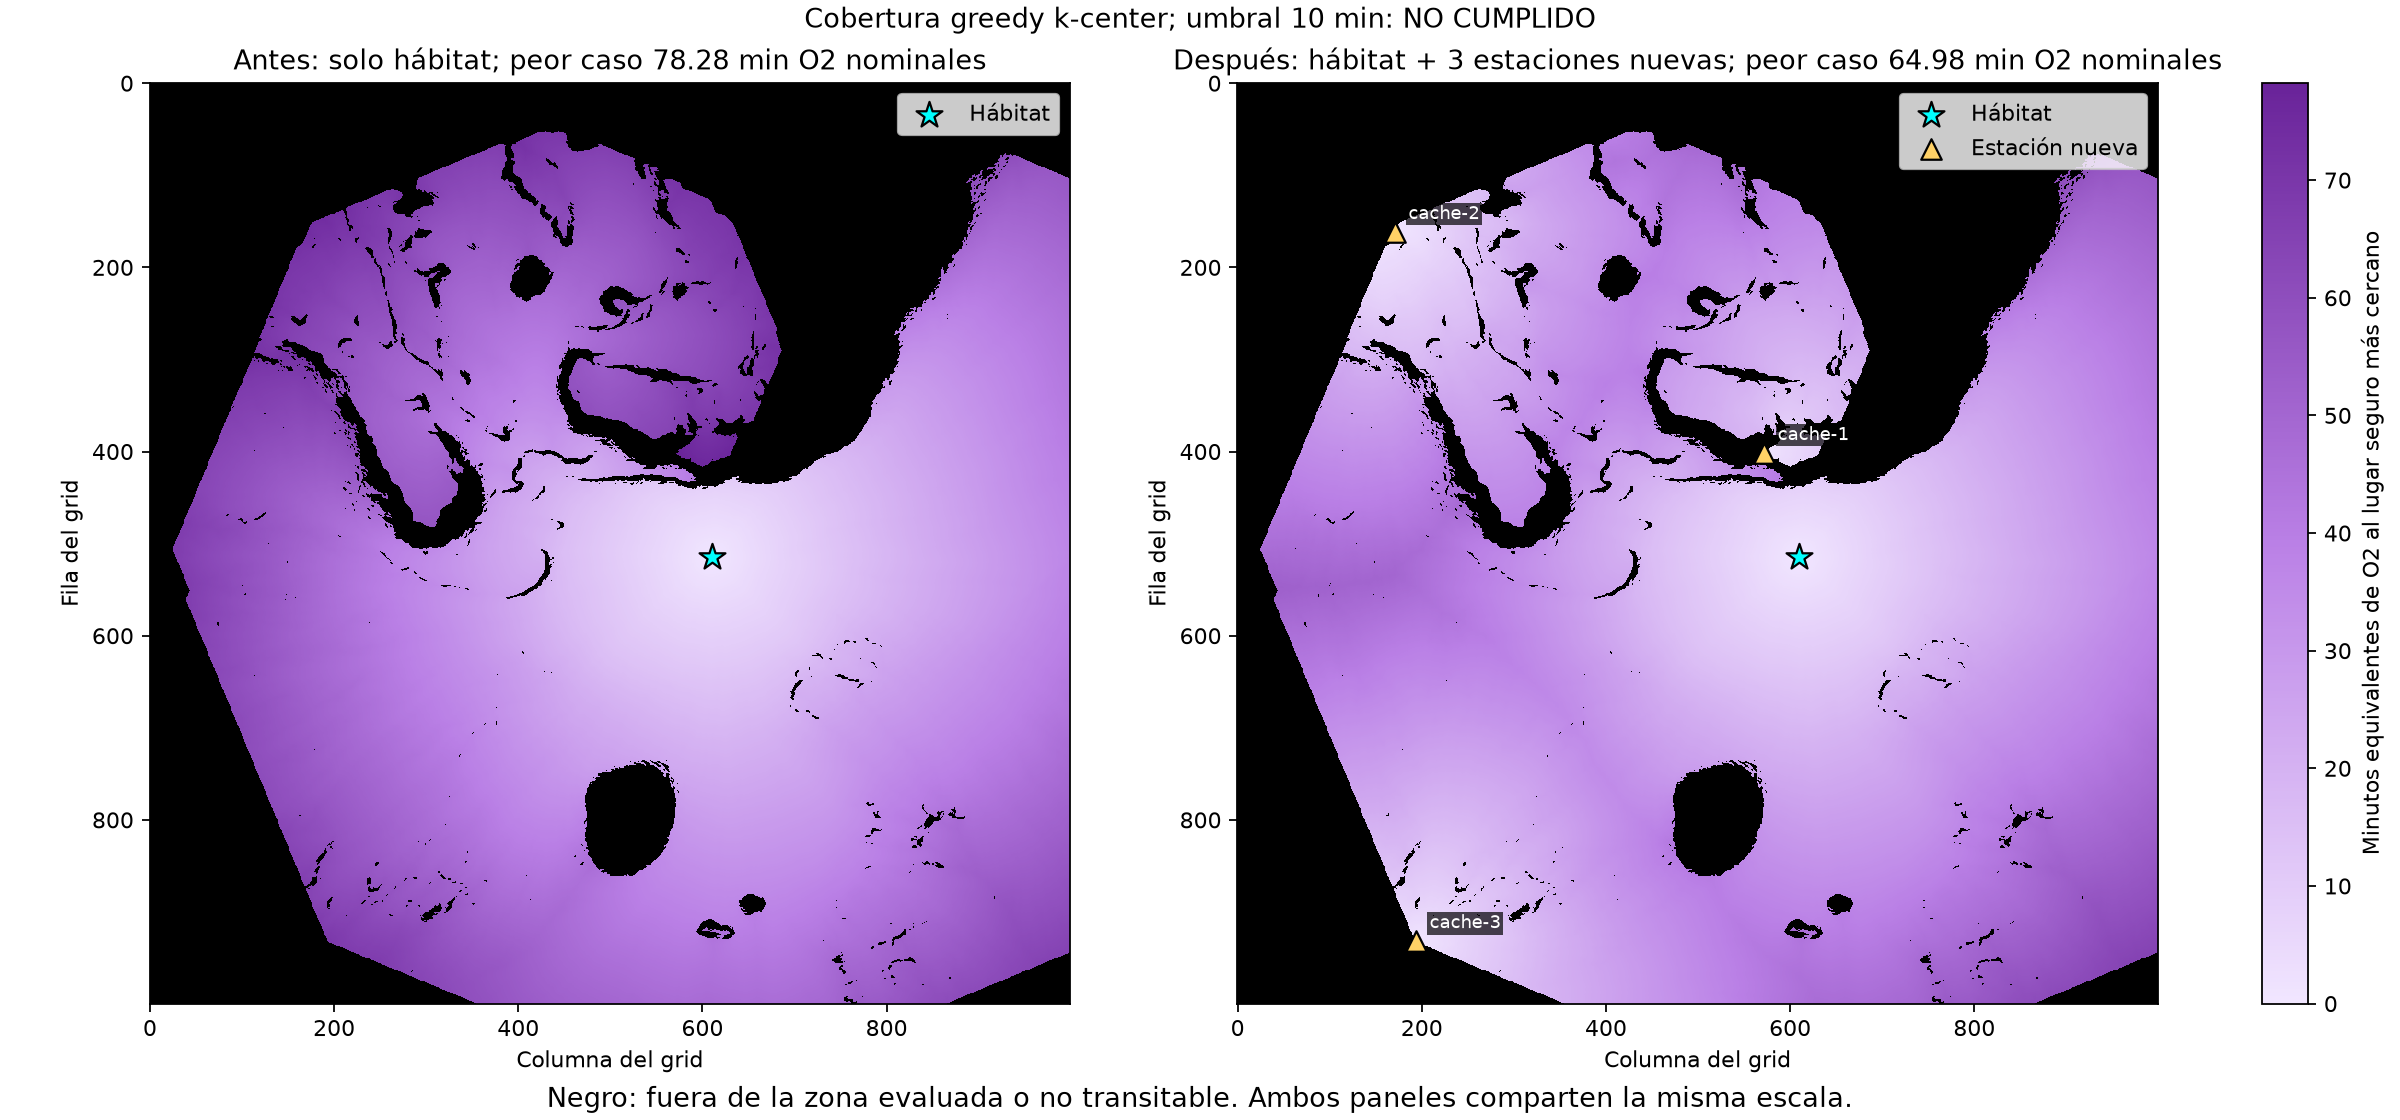
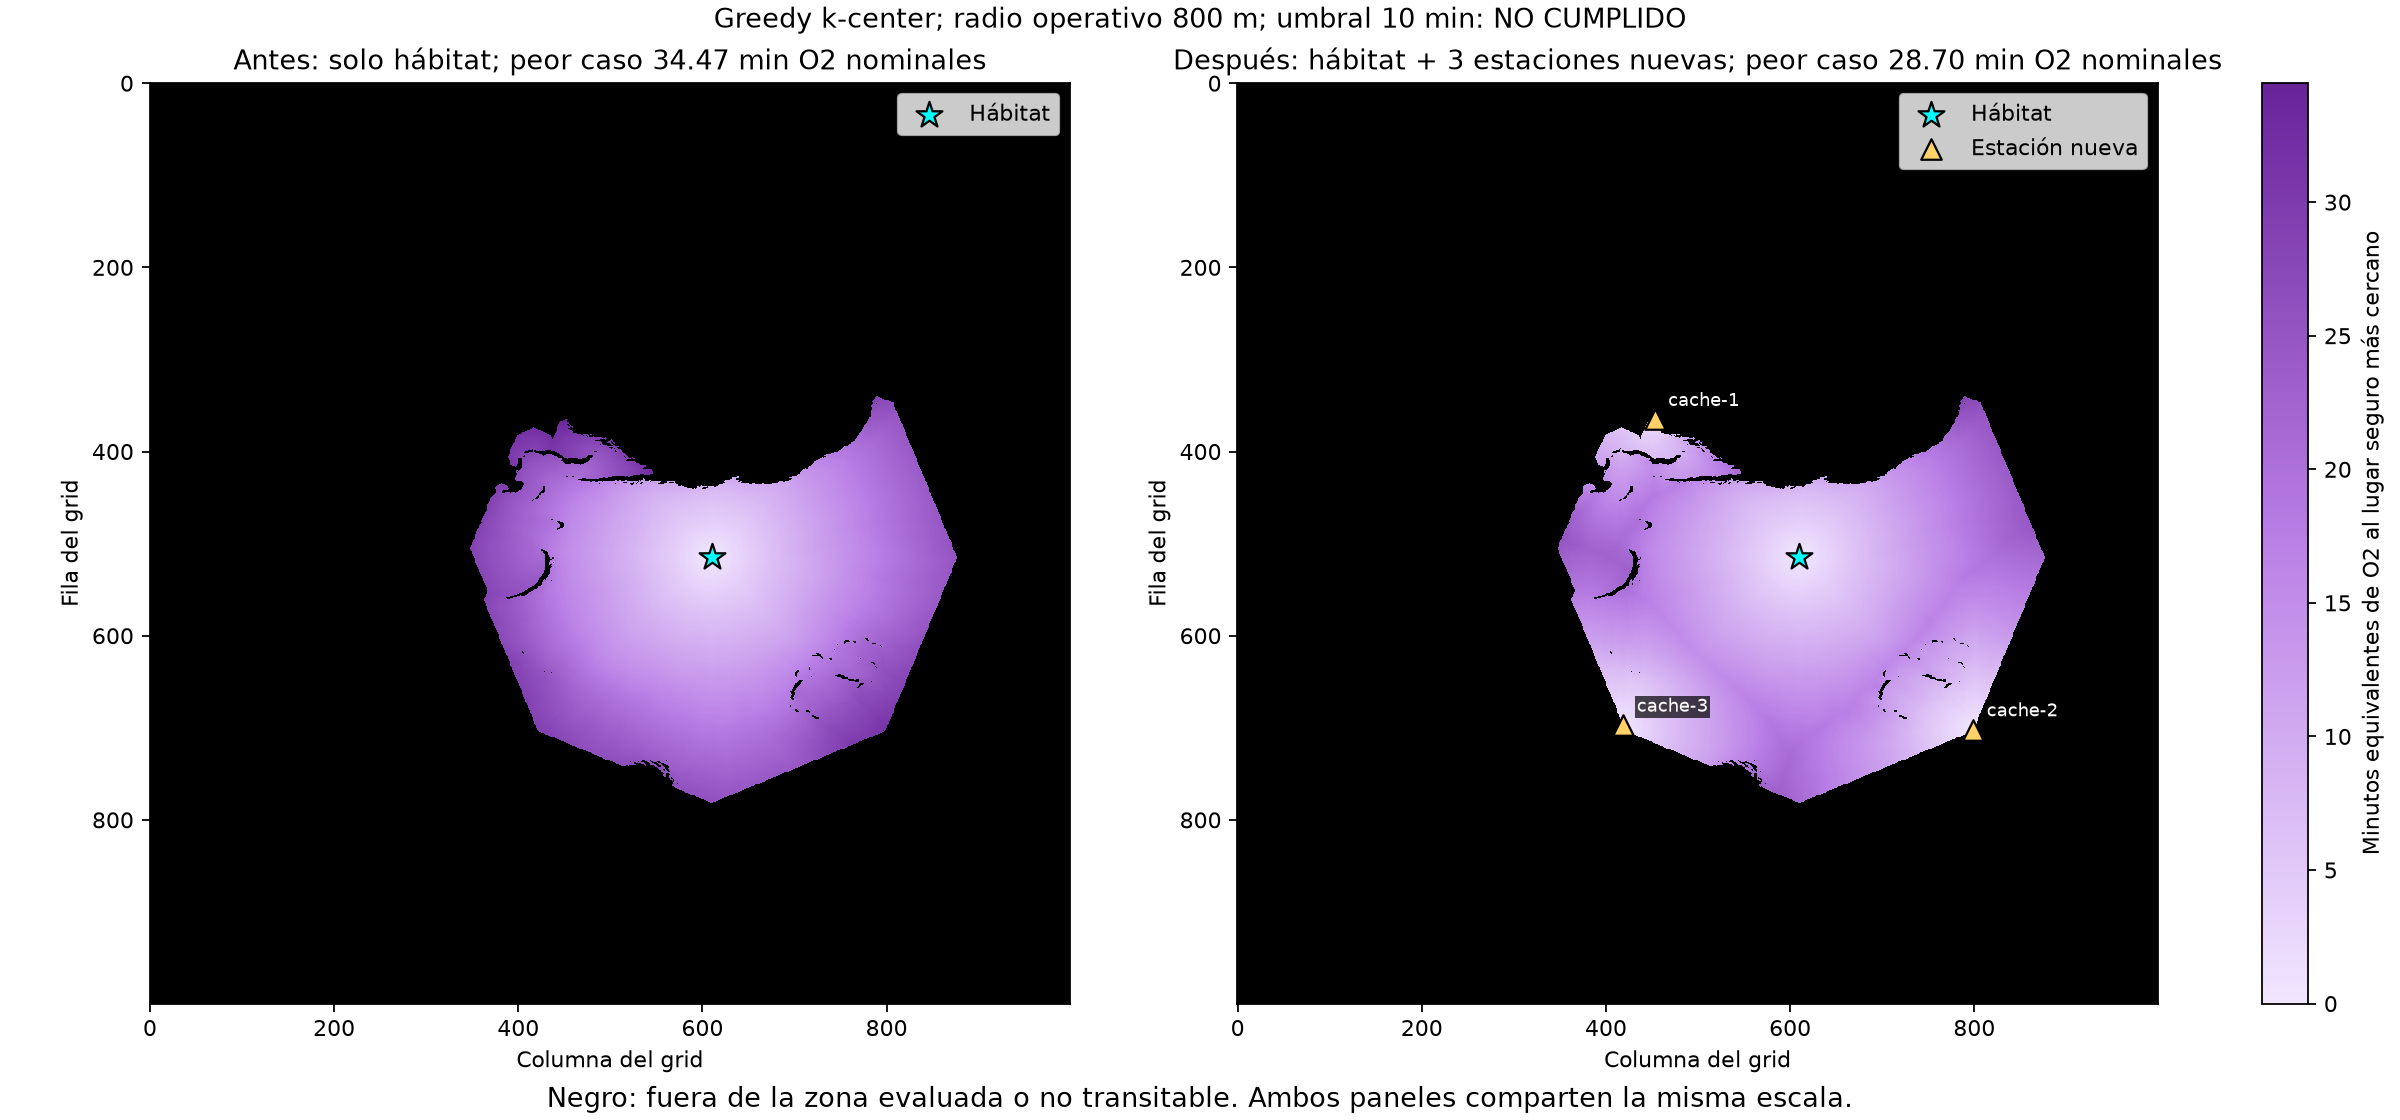
correction made

diff --git a/pipeline/calcstations.py b/pipeline/calcstations.py
@@ -1,11 +1,14 @@
 """Selecciona cachés de O2 con greedy k-center y exporta GeoJSON, CSV y PNG.
 
 Uso principal desde la raíz del repo:
-    .venv/bin/python pipeline/calcstations.py --validate
+    .venv/bin/python pipeline/calcstations.py --walkback 800 --validate --clean-binaries
 
 Lee pipeline/validation/cost_grid.f32, exportado con el cost.js real.
 Usa ocho vecinos y distancias de celda de meta.json.
 El costo acumulado está en minutos equivalentes al consumo nominal de O2.
+El radio operativo predeterminado es 800 m; no cambia el límite de walkback
+de 1770 m que comprueba el planner. --o2-source permite registrar la referencia
+técnica de Marco para la capacidad de las cachés; siempre se marca assumption=true.
 
 Variante SEV, como propuesta separada: --eva-targets <geojson_de_targets_del_EVA>
 Esta variante requiere targets seleccionados explícitamente, pone radiation_shelter
@@ -32,6 +35,7 @@ ROOT = Path(__file__).resolve().parents[1]
 DEFAULT_SITE = ROOT / "web/public/data/jezero"
 DEFAULT_REPORTS = ROOT / "pipeline/validation"
 SOURCE = "pipeline/calcstations.py greedy k-center"
+DEFAULT_O2_SOURCE = "EVA-1 scenario design assumption: 120 nominal O2-min per cache; technical reference pending confirmation from Marco."
 
 
 def read_json(path):
@@ -159,7 +163,7 @@ def greedy_stations(cost_grid, coverage_zone, habitat, cell_m, max_stations=3, t
     return stations, history, before, field
 
 
-def save_stations(path, stations, history, meta, threshold, radiation_shelter=False):
+def save_stations(path, stations, history, meta, threshold, radiation_shelter=False, o2_source=DEFAULT_O2_SOURCE, zone_label="radio operativo 800 m"):
     document = {"type": "FeatureCollection", "features": []}
     if Path(path).is_file():
         document = read_json(path)
@@ -184,7 +188,7 @@ def save_stations(path, stations, history, meta, threshold, radiation_shelter=Fa
         station_name = f"Refugio SEV {number}" if radiation_shelter else f"Cache {number}"
         previous = history[step - 1]["worst_o2_min"]
         current = history[step]["worst_o2_min"]
-        notes = f"Greedy k-center, k={step}; worst case before/after: {previous:.2f}/{current:.2f} nominal O2 min. Final worst case: {final_worst:.2f}; threshold: {threshold:.2f}; threshold_met: {str(met).lower()}."
+        notes = f"Greedy k-center, k={step}; zone: {zone_label}; worst case before/after: {previous:.2f}/{current:.2f} nominal O2 min. Final worst case: {final_worst:.2f}; threshold: {threshold:.2f}; threshold_met: {str(met).lower()}."
         if radiation_shelter:
             notes += " Variante SEV: propuesta para coordinar con Marco."
         feature = {
@@ -196,7 +200,7 @@ def save_stations(path, stations, history, meta, threshold, radiation_shelter=Fa
                 "kind": "shelter",
                 "station_type": "cache",
                 "radiation_shelter": bool(radiation_shelter),
-                "supplies": {"o2_min": {"value": 120, "source": "Marco"}},
+                "supplies": {"o2_min": {"value": 120, "source": o2_source, "assumption": True}},
                 "source": SOURCE,
                 "notes": notes,
             },
@@ -209,10 +213,10 @@ def save_stations(path, stations, history, meta, threshold, radiation_shelter=Fa
     return generated
 
 
-def save_summary(path, history, stations, features, threshold):
+def save_summary(path, history, stations, features, threshold, zone_label="radio operativo 800 m"):
     path.parent.mkdir(parents=True, exist_ok=True)
     temporary = path.with_name(path.name + ".tmp")
-    columns = ["k", "worst_o2_min", "threshold_o2_min", "threshold_met", "station_id", "row", "column"]
+    columns = ["k", "worst_o2_min", "threshold_o2_min", "threshold_met", "station_id", "row", "column", "evaluation_zone"]
     with temporary.open("w", encoding="utf-8", newline="") as handle:
         writer = csv.DictWriter(handle, fieldnames=columns)
         writer.writeheader()
@@ -220,12 +224,12 @@ def save_summary(path, history, stations, features, threshold):
             k = entry["k"]
             row, col = stations[k - 1] if k else ("", "")
             station_id = features[k - 1]["properties"]["id"] if k else ""
-            record = {"k": k, "worst_o2_min": entry["worst_o2_min"], "threshold_o2_min": threshold, "threshold_met": entry["worst_o2_min"] <= threshold, "station_id": station_id, "row": row, "column": col}
+            record = {"k": k, "worst_o2_min": entry["worst_o2_min"], "threshold_o2_min": threshold, "threshold_met": entry["worst_o2_min"] <= threshold, "station_id": station_id, "row": row, "column": col, "evaluation_zone": zone_label}
             writer.writerow(record)
     temporary.replace(path)
 
 
-def save_comparison(path, before, after, coverage_zone, habitat, stations, features, threshold):
+def save_comparison(path, before, after, coverage_zone, habitat, stations, features, threshold, zone_label="radio operativo 800 m"):
     cmap = LinearSegmentedColormap.from_list("access_purple", ["#F1E6FF", "#BA80E6", "#692399"]).with_extremes(bad="black")
     norm = Normalize(vmin=0, vmax=max(float(before[coverage_zone].max()), 1e-9))
     fig, axes = plt.subplots(1, 2, figsize=(15, 7), constrained_layout=True)
@@ -248,13 +252,26 @@ def save_comparison(path, before, after, coverage_zone, habitat, stations, featu
         ax.legend(loc="upper right")
     fig.colorbar(image, ax=axes.tolist(), label="Minutos equivalentes de O2 al lugar seguro más cercano")
     result = "CUMPLIDO" if float(after[coverage_zone].max()) <= threshold else "NO CUMPLIDO"
-    fig.suptitle(f"Cobertura greedy k-center; umbral {threshold:g} min: {result}")
+    fig.suptitle(f"Greedy k-center; {zone_label}; umbral {threshold:g} min: {result}")
     fig.supxlabel("Negro: fuera de la zona evaluada o no transitable. Ambos paneles comparten la misma escala.")
     path.parent.mkdir(parents=True, exist_ok=True)
     temporary = path.with_name(path.name + ".tmp")
     fig.savefig(temporary, format="png", dpi=160)
     plt.close(fig)
     temporary.replace(path)
+
+
+def clean_generated_binaries(root):
+    filenames = ["pipeline/validation/cost_grid.f32", "pipeline/validation/Copia de cost_grid.f32"]
+    subprocess.run(["git", "rm", "--cached", "--ignore-unmatch", "--", *filenames], cwd=root, check=True)
+    ignore_path = root / ".gitignore"
+    content = ignore_path.read_text(encoding="utf-8") if ignore_path.is_file() else ""
+    rule = "pipeline/validation/*.f32"
+    if rule not in content.splitlines():
+        separator = "" if not content or content.endswith("\n") else "\n"
+        ignore_path.write_text(content + separator + rule + "\n", encoding="utf-8")
+    subprocess.run(["git", "add", "--", ".gitignore"], cwd=root, check=True)
+    print("Generated validation .f32 files removed from Git index; local copies preserved and .gitignore updated.")
 
 
 def main():
@@ -265,14 +282,19 @@ def main():
     parser.add_argument("--output", type=Path)
     parser.add_argument("--max-stations", type=int, default=None)
     parser.add_argument("--threshold", type=float, default=10.0)
-    parser.add_argument("--walkback", type=float, default=1770.0)
+    parser.add_argument("--walkback", "--operation-radius", dest="walkback", type=float, default=800.0, help="Radio operativo para ubicar cachés; el límite de walkback del planner sigue siendo 1770 m.")
+    parser.add_argument("--o2-source", default=DEFAULT_O2_SOURCE, help="Referencia técnica exacta para los 120 min de reposición; por defecto queda explícita como supuesto pendiente de Marco.")
     parser.add_argument("--eva-targets", type=Path, help="GeoJSON que contiene solamente los targets seleccionados del EVA; activa la propuesta SEV.")
     parser.add_argument("--validate", action="store_true", help="Ejecuta node test/validate_data.mjs jezero desde web.")
+    parser.add_argument("--clean-binaries", action="store_true", help="Quita los dos cost_grid.f32 del índice Git, conserva los archivos locales y añade la regla de .gitignore.")
     args = parser.parse_args()
     is_sev = args.eva_targets is not None
     max_stations = args.max_stations if args.max_stations is not None else (1 if is_sev else 3)
     if max_stations < 0 or not np.isfinite([args.threshold, args.walkback]).all() or args.threshold < 0 or args.walkback < 0:
         parser.error("max-stations, threshold y walkback deben ser no negativos y finitos.")
+    o2_source = args.o2_source.strip()
+    if not o2_source or o2_source.lower() == "marco":
+        parser.error("o2-source debe describir una referencia o supuesto identificable; un nombre solo no es una fuente.")
     stem = "stations_sev" if is_sev else "stations"
     default_output = args.report_dir / "stations_sev.geojson" if is_sev else args.site_dir / "stations.geojson"
     output = args.output if args.output is not None else default_output
@@ -287,28 +309,34 @@ def main():
     distance_m = walking_distances(cost_grid, habitat, cell_m)
     reachable = np.isfinite(distance_m)
     coverage_zone = load_eva_zone(args.eva_targets, meta, distance_m) if is_sev else (reachable & (distance_m <= args.walkback))
+    zone_label = "targets seleccionados del EVA" if is_sev else f"radio operativo {args.walkback:g} m"
     print(f"Habitat cell (row, column): {habitat}")
     print(f"Walkable cells: {np.count_nonzero(np.isfinite(cost_grid))}")
     print(f"Reachable cells: {np.count_nonzero(reachable)}")
     print(f"Cells in evaluation zone: {np.count_nonzero(coverage_zone)}")
     stations, history, before, after = greedy_stations(cost_grid, coverage_zone, habitat, cell_m, max_stations, args.threshold)
-    features = save_stations(output, stations, history, meta, args.threshold, radiation_shelter=is_sev)
+    features = save_stations(output, stations, history, meta, args.threshold, radiation_shelter=is_sev, o2_source=o2_source, zone_label=zone_label)
     summary_path = args.report_dir / f"{stem}_summary.csv"
     figure_path = args.report_dir / f"{stem}_before_after.png"
-    save_summary(summary_path, history, stations, features, args.threshold)
-    save_comparison(figure_path, before, after, coverage_zone, habitat, stations, features, args.threshold)
+    save_summary(summary_path, history, stations, features, args.threshold, zone_label)
+    save_comparison(figure_path, before, after, coverage_zone, habitat, stations, features, args.threshold, zone_label)
     for entry in history:
         print(f"k={entry['k']}: {entry['worst_o2_min']:.2f} nominal O2 min")
     for cell, feature in zip(stations, features):
         print(f"{feature['properties']['id']}: cell={cell}, coordinates={feature['geometry']['coordinates']}")
     met = history[-1]["worst_o2_min"] <= args.threshold
     print(f"Threshold met: {met}; threshold={args.threshold:g} nominal O2 min; caches added={len(stations)}")
+    print(f"Evaluation zone: {zone_label}; the planner's 1770 m walkback limit is unchanged.")
+    if o2_source == DEFAULT_O2_SOURCE:
+        print("Capacity provenance pending: the 120 min refill is explicitly a scenario assumption until Marco supplies the technical reference.")
     print(f"GeoJSON: {output.resolve()}")
     print(f"Table: {summary_path.resolve()}")
     print(f"Figure: {figure_path.resolve()}")
     if args.validate:
         subprocess.run(["node", "test/validate_data.mjs", "jezero"], cwd=ROOT / "web", check=True)
         print("Planner data validation passed.")
+    if args.clean_binaries:
+        clean_generated_binaries(ROOT)
 
 
 if __name__ == "__main__":
